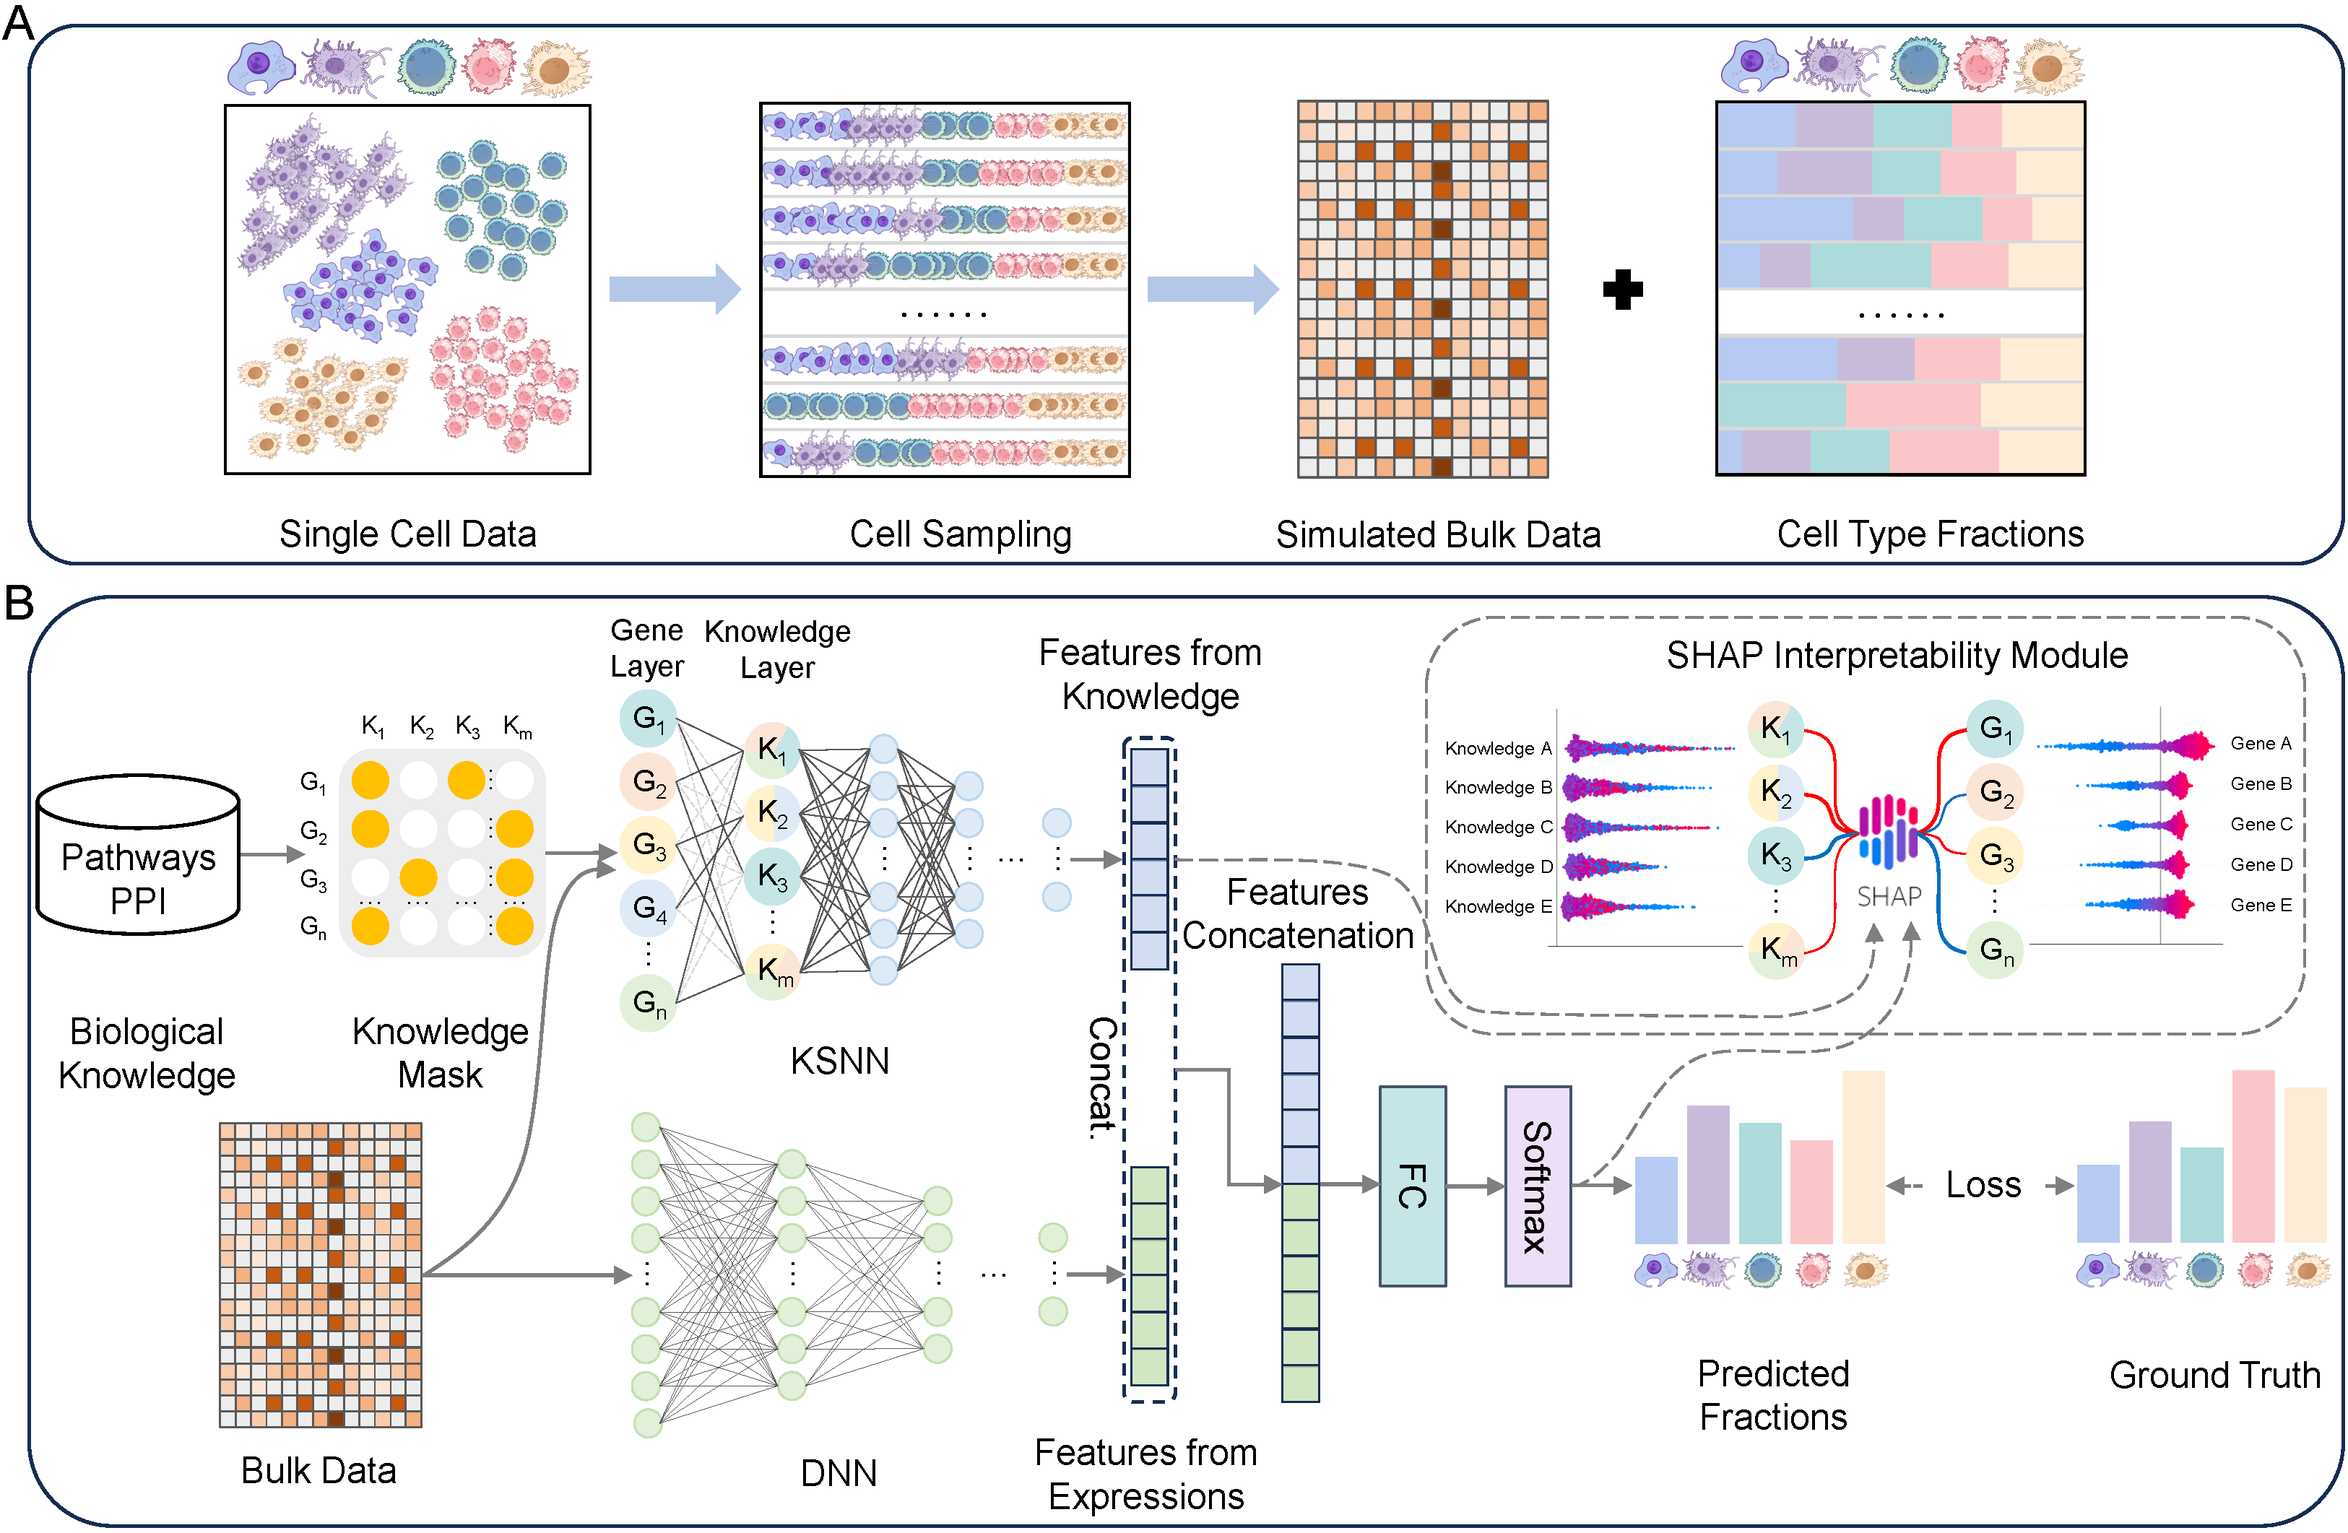
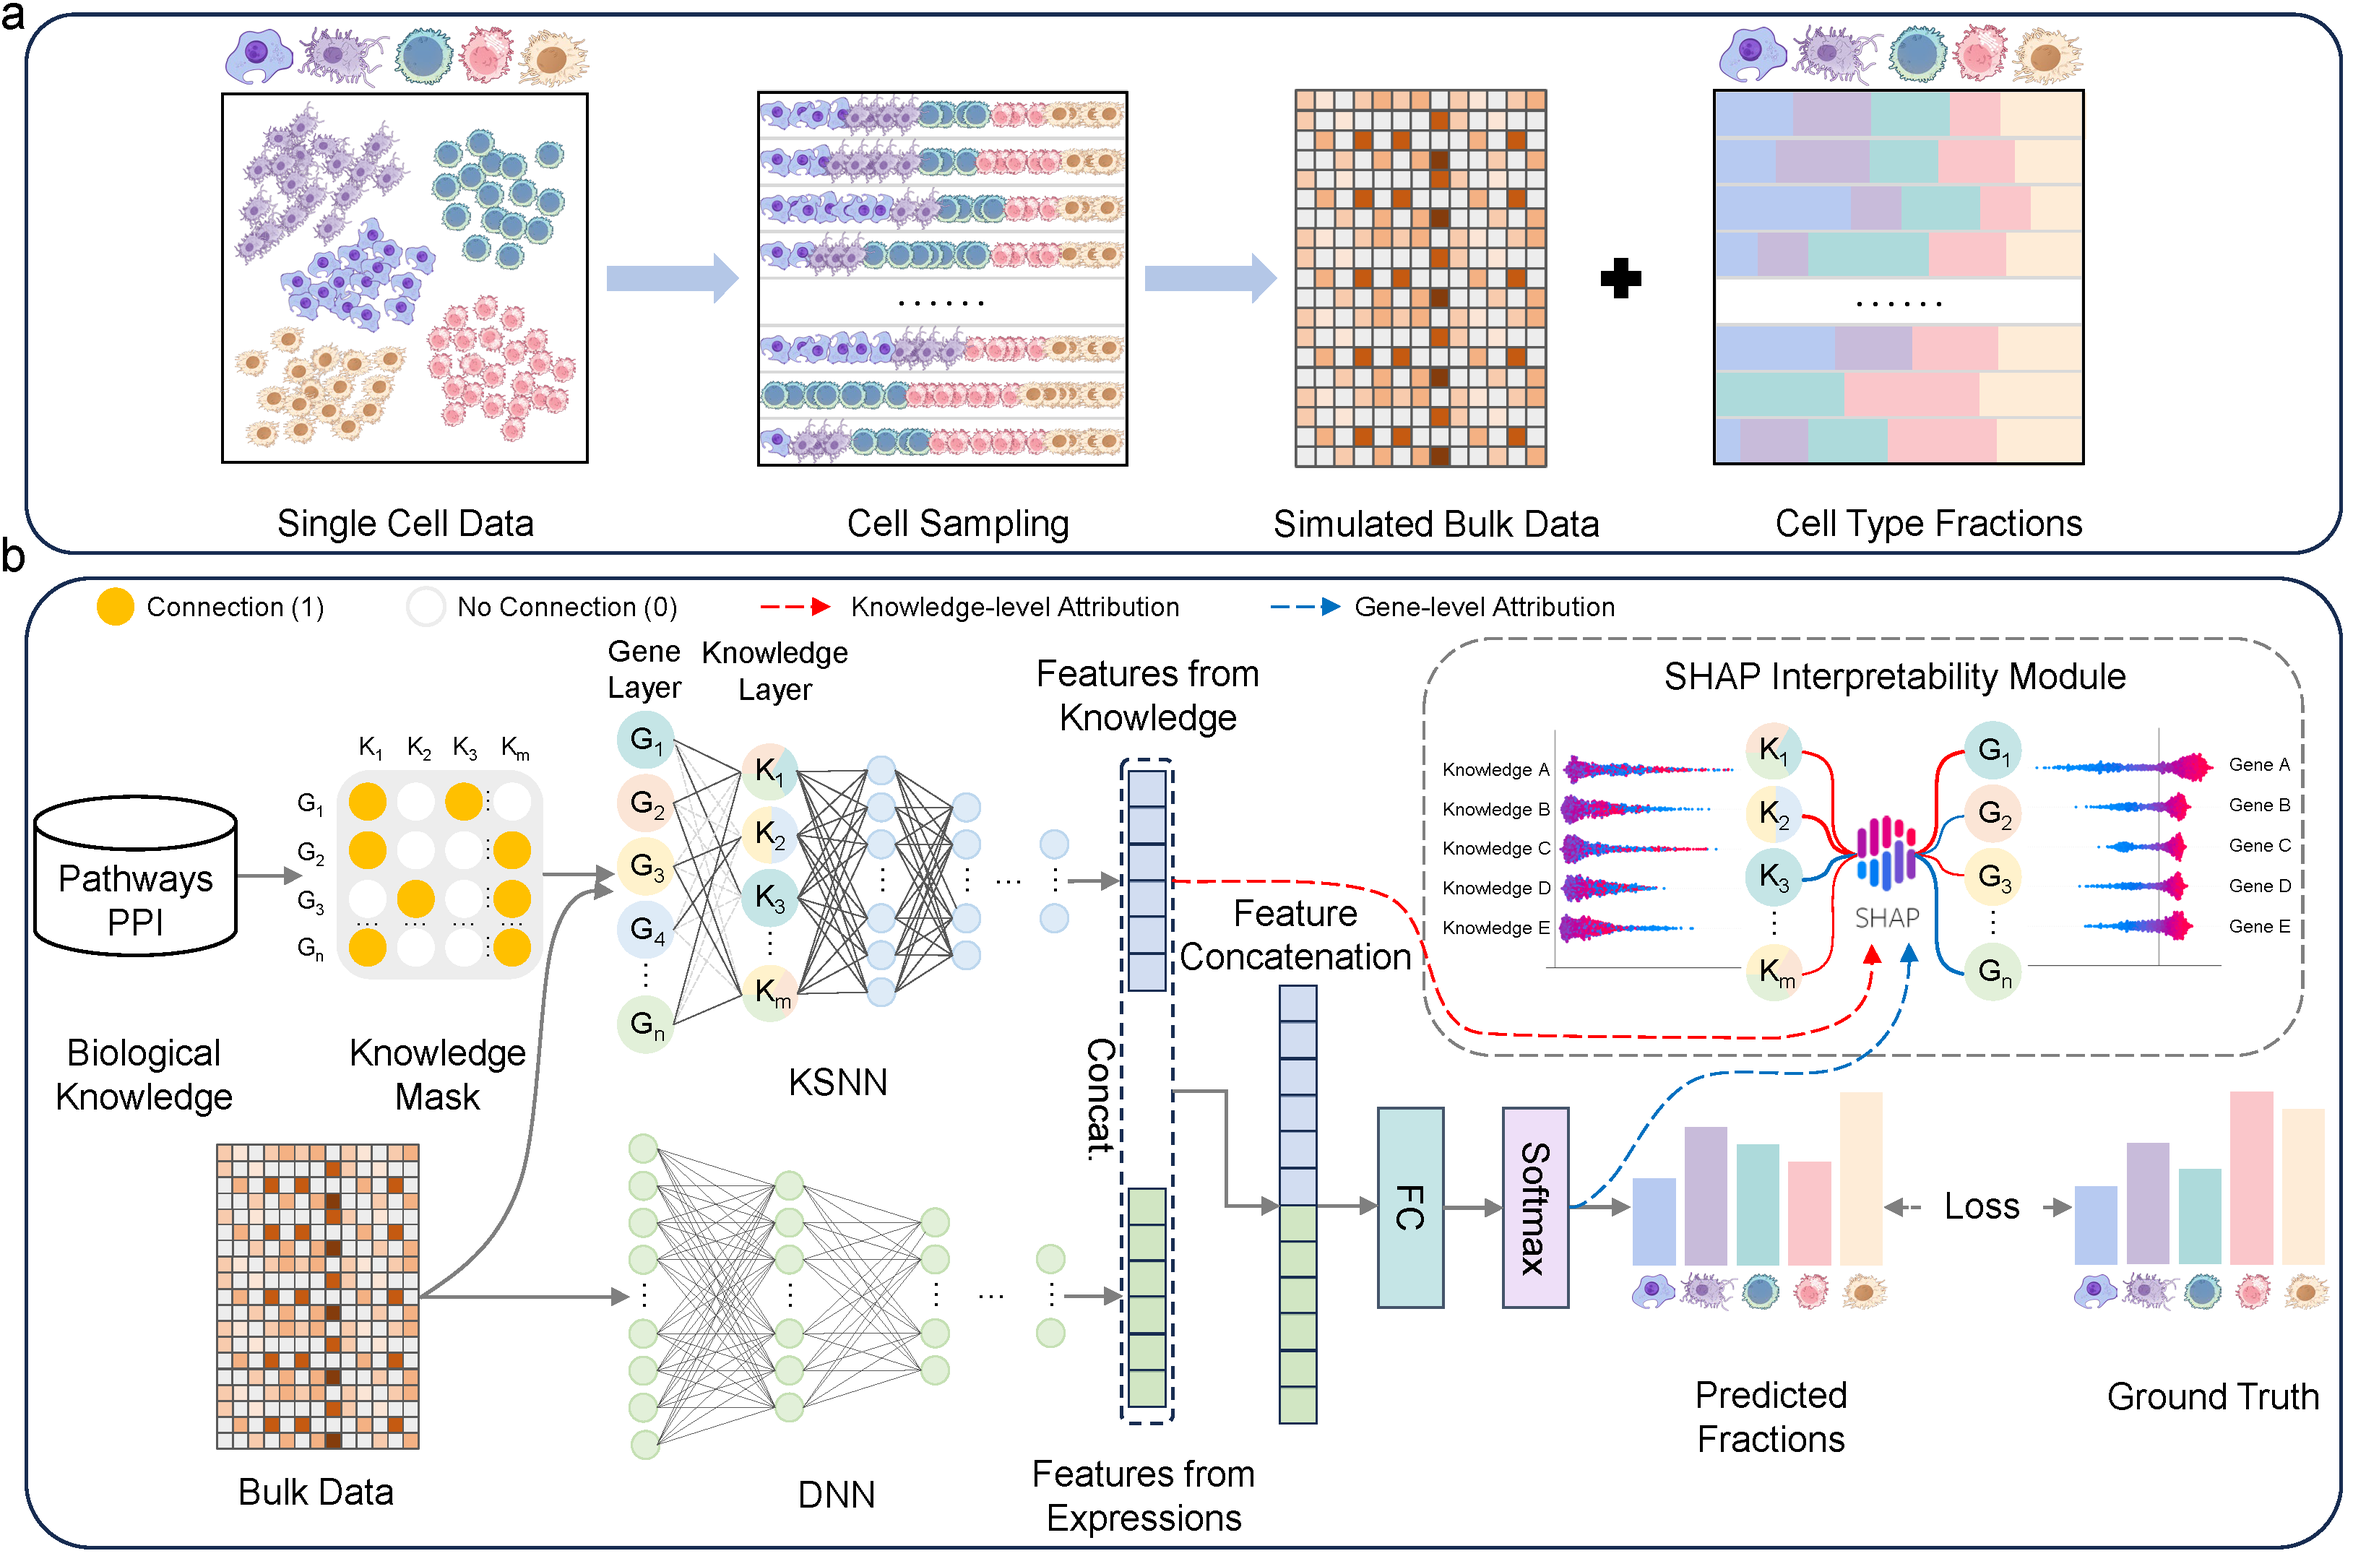
Fix formatting in README.

diff --git a/README.md b/README.md
@@ -5,12 +5,13 @@
 This repository contains the source code for the iDCF paper.
 
 ![](./model.png)
-*The iDCF framework workflow.
+**The iDCF framework workflow.**
         (a) Construction of the pseudo-bulk training cohort. ScRNA-seq data serves as the source for generating pseudo-bulk samples through a randomized in silico cell sampling strategy. These simulated mixtures are assigned ground truth cell-type proportions to supervise model training.
         (b) The dual-stream neural network architecture. The model integrates transcriptomic data with biological priors through two parallel streams:
         (1) Data-driven stream (DNN): Processes bulk expression vectors through fully connected layers to extract high-dimensional latent features.
-        (2) Knowledge-driven stream (KSNN): Utilizes a "knowledge mask" to impose structural constraints on a sparse neural network. Connections between the ``gene layer" and ``knowledge layer" are strictly limited to biologically established interactions (e.g., gene-pathway or PPI associations), filtering out spurious correlations.
-        Deep features from both streams are concatenated and passed through a fusion layer and softmax classifier to minimize the loss against ground truth. The ``SHAP interpretability module" visualizes the model's logic by computing Shapley values for individual genes and knowledge nodes, revealing the biological basis of the predictions.
+        (2) Knowledge-driven stream (KSNN): Utilizes a "knowledge mask" to impose structural constraints on a sparse neural network. Connections between the "gene layer" and "knowledge layer" are strictly limited to biologically established interactions (e.g., gene-pathway or PPI associations), filtering out spurious correlations.
+        Deep features from both streams are concatenated and passed through a fusion layer and softmax classifier to minimize the loss against ground truth. 
+        The "SHAP interpretability module" dissects the model's decision logic at two distinct levels to reveal the biological basis of predictions: (i) Gene-level attribution: Computes directional SHAP values for individual gene inputs relative to the model's final output layer. This reveals whether specific gene expression levels exert a positive or negative influence on the estimation of a given cell type. (ii) Knowledge-level prioritization: Interrogates the knowledge feature vector output by the KSNN stream. By quantifying the mean absolute SHAP value of these intermediate features, this metric ranks biological modules based on their overall magnitude of influence on the decision-making process.
 ## Installation Guide
 
 ### Prerequisites
